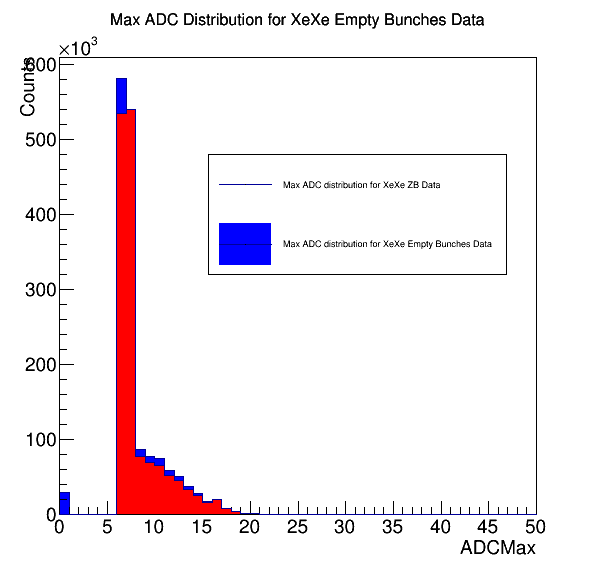
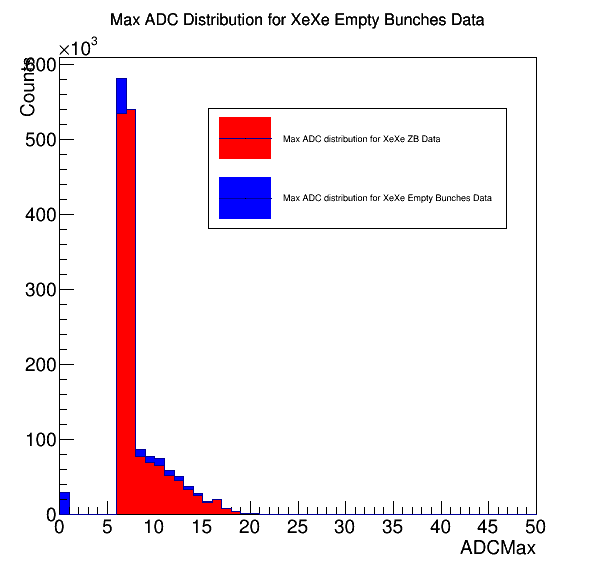
Seventh Commit

Changed region(s): [[0.3624, 0.1783, 0.8154, 0.4755]]

diff --git a/2018MBTrigger/DataAnalysis/PlotADCQuick.C b/2018MBTrigger/DataAnalysis/PlotADCQuick.C
@@ -279,7 +279,7 @@ void PlotADCQuick(){
 
 	TCanvas *b2 = new TCanvas("b2","b2",600,600);
 	b2->cd();
-	TLegend * l5 = new TLegend(0.35,0.60,0.85,0.81);
+	TLegend * l5 = new TLegend(0.38,0.60,0.88,0.81);
 	ADXMax1->SetFillColor(kRed);
 	ADXMax2->SetFillColor(kBlue);
 	l5->AddEntry(ADXMax1,Form("Max ADC distribution for %s ZB Data",colsyst.Data()));
